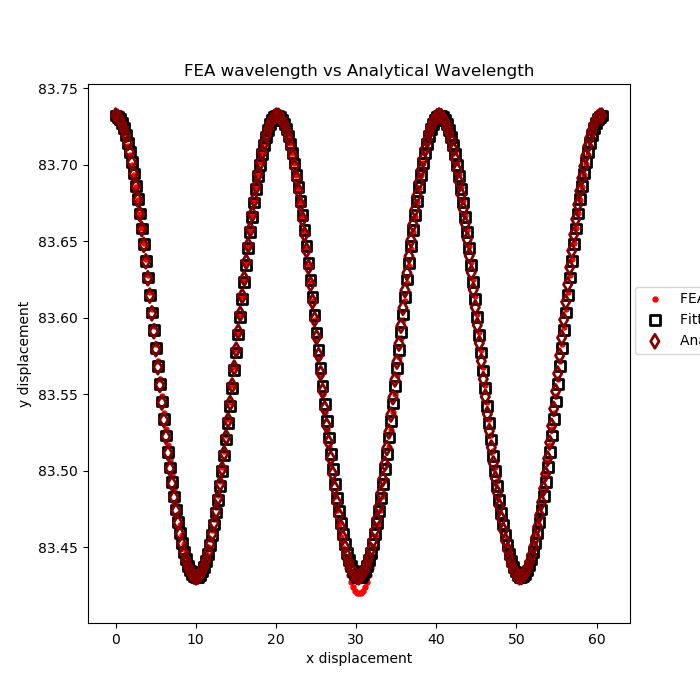
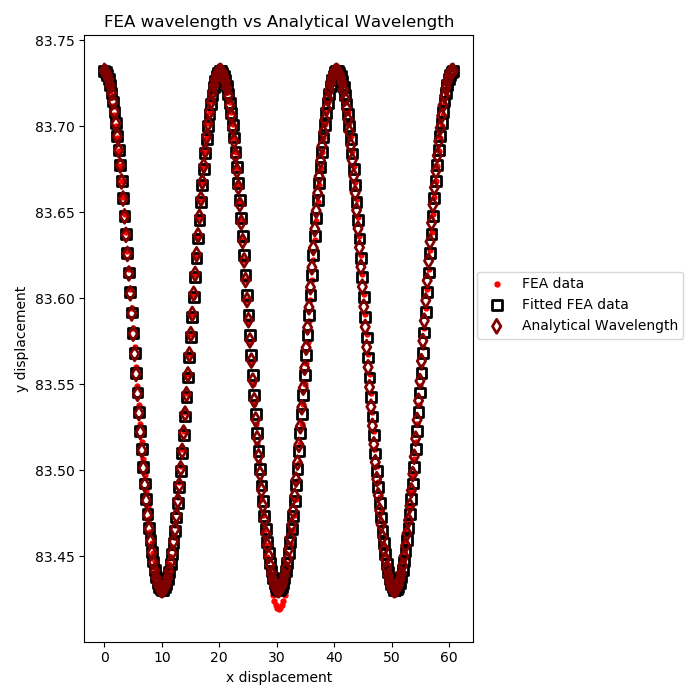
Modified bilayer validation

diff --git a/validation/validate_bilayer.py b/validation/validate_bilayer.py
@@ -222,7 +222,7 @@ plt.scatter(disp_x,fit_func(disp_x, params[0], ana_wavelength, params[2], params
 plt.xlabel('x displacement')
 plt.ylabel('y displacement')
 plt.legend(loc = (1.01,0.5))
-
+plt.tight_layout()
 plt.savefig('validation/validate_bilayer_wavelength.png')
 
 percent_diff_wavelength=((params[1]-ana_wavelength)/ana_wavelength)*100
